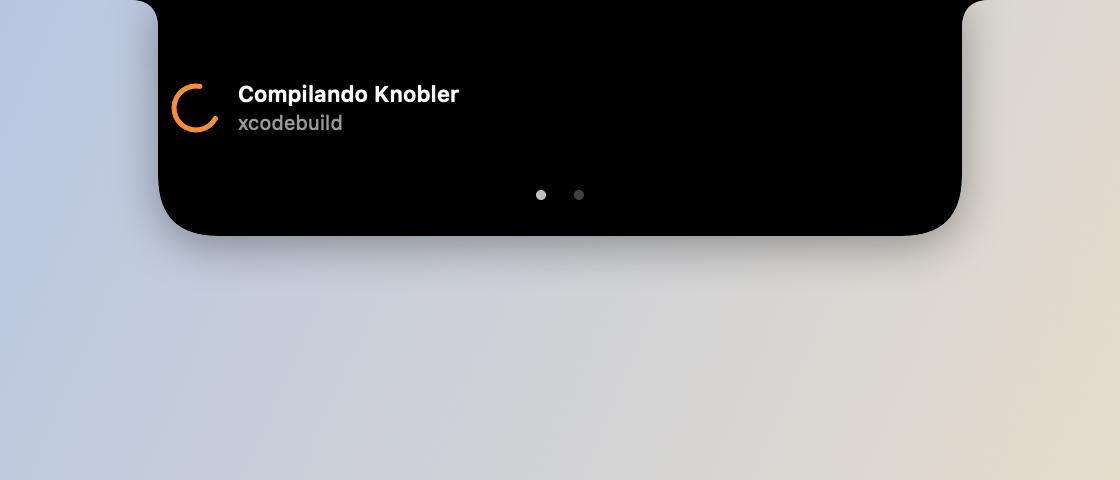
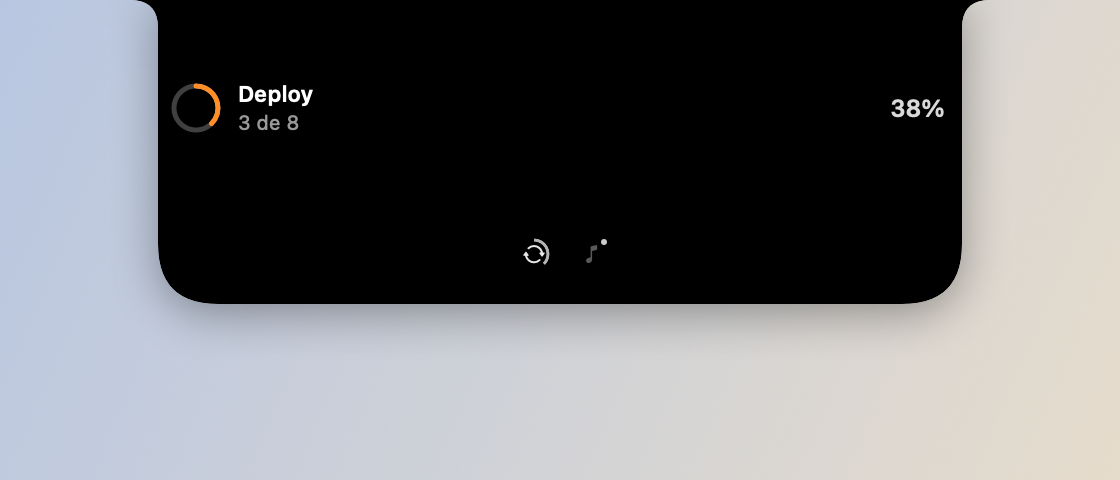
docs: fechamento da sessão do card com foco único
A Task 7 da branch varreu o vocabulário morto, mas três páginas de feature
seguiam descrevendo o mundo antigo por omissão — nenhuma delas citava a faixa
de ícones nem o modelo de seção:

- pomodoro.md: ganhou a seção do card, o anel do tempo restante na faixa, e o
  fato de que o timer não some mais a música (a supressão implícita morreu).
- mirror.md: onde fica o botão de câmera agora, e que o espelho ligado vira
  seção com ícone próprio.
- shelf.md: a contagem de itens no ícone e o arquivo novo como evento.

Duas imagens recapturadas do harness (music-expanded, expanded-activity-only)
mostram o rodapé novo. A da prateleira não sai do harness — as miniaturas
dependem do QLThumbnailGenerator, que não renderiza offscreen — então a página
avisa que a captura é anterior à faixa, em vez de mentir em silêncio.

HANDOFF com a sessão inteira: a queixa de UX que a originou, a distinção
evento × tique que a pesquisa salvou, e cinco pendências nomeadas.

Claude-Session: https://claude.ai/code/session_01MinJj9ahV381dmz6ZMNra1

diff --git a/HANDOFF.md b/HANDOFF.md
@@ -1,3 +1,80 @@
+# 🏁 SESSÃO 2026-07-29 (noite) — o card parou de empilhar
+
+A sessão começou por uma queixa de UX, não por um bug: *"a organização e a
+hierarquia da informação no notch não acompanha o usuário — parece uma coisa
+fixa da qual ele que precisa se curvar."* Terminou com **v0.14.0** publicada,
+depois de um desvio pro ícone do app.
+
+## O que foi feito
+
+**O card aberto virou uma lista ordenada + um índice de foco.** Antes ele
+empilhava tudo que existia numa ordem hardcoded (pomodoro > espelho > shelf >
+atividade > música), com a altura somada à mão por constantes combinatórias e
+**três** mecanismos de navegação concorrentes: abas com pontinhos, cortina do
+histórico e swipe. Agora a seção em foco ocupa o card e declara a própria
+altura; as outras viram ícones no rodapé, com sinal vivo mínimo (anel de
+progresso, contagem, ponto de tocando).
+
+A ordem sai de três camadas: base do usuário (arrastável em Ajustes › Notch),
+filtro de conteúdo, e promoção por **evento de transição** nos últimos 10 s —
+congelada no instante da abertura, pra nada pular debaixo do cursor.
+
+**A distinção evento × tique é o coração da feature, e quase passou batido.**
+O spec original dizia "seção que mudou nos últimos 10 s sobe". A pesquisa de
+viabilidade derrubou isso: `PomodoroState.remaining` muda a cada segundo e o
+`MediaController` publica posição continuamente — "mudou" deixaria os dois
+permanentemente promovidos e a regra degeneraria em "pomodoro sempre no topo".
+Virou uma tabela fechada de transições por seção, com `tools/eventoscheck.swift`
+provando por mutation testing que cada guarda tem seu matador.
+
+**Antes disso, o ícone.** O app usava um ícone que não conversava com o site, e
+a barra de menus não tinha ícone nenhum — era o caractere `◐` no título do
+`NSStatusItem`. Os dois viraram a silhueta do notch, que é a marca real do
+site (o `favicon.svg` de lá era o logo padrão do Astro, nunca trocado — também
+corrigido, no repo `knobler-site`). `tools/makeicon.swift` gera o `.icns` do
+vetor. Dois aprendizados: a arte precisa **sangrar até a borda** do canvas,
+senão o macOS 26 compõe tudo dentro de uma moldura clara dele (a "borda
+gigante"); e o ícone da barra é desenhado em runtime como `NSImage` template,
+sem asset novo.
+
+## Validação
+
+- `./tools/check.sh` → **18 checks** (era 16; a branch somou `sectionordercheck`
+  e `eventoscheck`).
+- `./tools/snapshot.sh` → 53 PNGs, cenários reescritos no eixo "qual seção em
+  foco". 49 byte-idênticos entre rodadas (recontado, não estimado).
+- Gesto medido no app real via `CGEvent.postToPid(_:)` — inclusive a folga de
+  16 pt, com controle negativo.
+- Ícone conferido lendo o que o **sistema** compõe (`NSWorkspace.icon(forFile:)`
+  do app instalado), não o PNG de origem.
+
+O processo foi SDD: 7 tasks, cada uma com implementador e revisor próprios. A
+revisão pegou um **Critical** (ligar a nota abria o card na seção errada *e* o
+app tomava a janela-chave sem campo focado — teclas engolidas em silêncio) e
+três Important, entre eles um `focoPendente` que sequestrava a abertura
+seguinte e travava a promoção pela sessão inteira. Um "Important" era **falso
+positivo** e o implementador provou com repro: `@Published` torna a propriedade
+computada, então `didSet` **reentra** — ao contrário da regra que vale pra
+propriedade armazenada.
+
+## Pendências e followups
+
+- **`docs/images/expanded-shelf.png` é anterior à faixa** e pede recaptura
+  manual no app rodando (as miniaturas dependem do `QLThumbnailGenerator`, que
+  não renderiza offscreen). Já anotado na própria página.
+- **`fatiaDoCiclo` reimplementa `Pomodoro.duration(of:config:)`** e ignora o
+  `configProvider` injetado. Trocar o `switch` pela chamada mata a duplicação
+  sem mudar contrato.
+- **`zoneWidth` do scroll fechado (400) segue literal** — o aberto já deriva de
+  `NotchGesture.larguraDoCard + 2×folgaDeHover`.
+- **Digitar na nota nunca foi testado no app rodando** (painel `nonactivating`,
+  `keystroke` do System Events vai pro app da frente). É o único ponto da
+  feature cuja garantia é leitura de código, e é justamente o caminho da perda
+  silenciosa de teclas — vale um teste manual humano.
+- O app em `/Applications` pode estar num build Debug desta sessão. `brew
+  upgrade knobler` pra ficar com a release; a assinatura muda e o TCC ancora a
+  Acessibilidade no cdhash, então o ditado pode pedir permissão de novo.
+
 # 🏁 SESSÃO 2026-07-29 (tarde) — o crash em Mac novo e a conversa que abria no topo
 
 Sessão curta e reativa: dois bugs relatados de fora, dois releases publicados

diff --git a/docs/shelf.md b/docs/shelf.md
@@ -2,6 +2,11 @@
 
 ![Notch expandido com a prateleira](images/expanded-shelf.png)
 
+> A captura acima é anterior à faixa de ícones do rodapé (v0.14.0) — o card
+> real hoje traz a faixa embaixo. Ela não sai do `tools/snapshot.sh` porque as
+> miniaturas dependem do `QLThumbnailGenerator`, que não renderiza offscreen;
+> pede recaptura manual no app rodando.
+
 ## O que faz
 
 Uma prateleira de arquivos temporários no notch: arraste um arquivo pro notch
@@ -17,6 +22,11 @@ prontos pra arrastar em vez de precisar ir até a área de trabalho.
   "tirar" ele de lá.
 - Screenshots caírem automaticamente na prateleira: Ajustes → Notch
   (`screenshotsToShelf`).
+- A prateleira é uma **seção** do card aberto. Se ela não estiver em foco, o
+  ícone de bandeja na faixa do rodapé mostra a **contagem de itens** — clicar
+  traz a prateleira pra frente. Arquivo novo (arrastado ou screenshot
+  capturado) conta como evento: o card recém-aberto põe a prateleira na
+  frente por alguns segundos.
 - **Botão direito** (ou Control+clique) na miniatura abre o menu:
 
 ```

diff --git a/docs/mirror.md b/docs/mirror.md
@@ -13,7 +13,13 @@ chamada de verdade.
 
 ## Como usar
 
-- No notch aberto, clique no botão de câmera pra ligar/desligar o espelho.
+- No notch aberto, com a seção **Música** em foco, clique no botão de câmera
+  (à direita dos controles de reprodução) pra ligar/desligar o espelho. Sem
+  música tocando o mesmo botão aparece no meio do card, sob "Nada tocando".
+- Ligado, o espelho vira uma **seção** do card, com ícone próprio na faixa do
+  rodapé — clicar nele traz o espelho de volta se você tiver posto outra coisa
+  na frente. Recolher o notch desliga o espelho: a câmera nunca fica ligada
+  escondida.
 - Na primeira vez, o macOS pede a permissão de câmera.
 - Com mais de uma câmera na máquina (webcam USB, OBS Virtual Camera, Câmera de
   Continuidade), a **setinha no canto do preview** abre a lista pra escolher

diff --git a/docs/pomodoro.md b/docs/pomodoro.md
@@ -25,6 +25,20 @@ tempo restante.
 - Durações de foco/pausa curta/pausa longa e quantos ciclos até a pausa longa:
   Ajustes → Pomodoro.
 
+## No card aberto
+
+Com o timer rodando, o Pomodoro é uma **seção** do card aberto — o tempo
+grande, o "Ciclo N de M" e os controles. Ele não some mais a música: as duas
+convivem na faixa do rodapé e você escolhe qual fica na frente clicando no
+ícone (ou deslizando dois dedos na horizontal).
+
+Fora de foco, o ícone do timer na faixa mostra um **anel do tempo restante da
+fase** — dá pra saber quanto falta sem tirar a música da tela.
+
+Virar fase (foco → pausa e vice-versa) é um evento: o card recém-aberto põe o
+Pomodoro na frente por alguns segundos. O tique do relógio, não — senão ele
+moraria no topo pra sempre.
+
 ## Permissões
 
 Nenhuma permissão especial.

diff --git a/docs/architecture.md b/docs/architecture.md
@@ -87,9 +87,9 @@ de mensagem, por exemplo). A nota rápida é modo exclusivo: com ela em foco a
 faixa some.
 
 A altura do card é derivada do foco (`NotchView.alturaDaSecao`, que o
-`currentSize` consome) e
-publicada em `NotchViewModel.alturaAtual`, que o monitor de scroll — fora do
-SwiftUI — usa pra delimitar a zona do gesto junto com `NotchGesture.folgaDeHover`.
+`currentSize` consome) e publicada em `NotchViewModel.alturaAtual`, que o
+monitor de scroll — fora do SwiftUI — usa pra delimitar a zona do gesto junto
+com `NotchGesture.folgaDeHover` e `larguraDoCard`.
 
 ## Fluxo de AskUserQuestion
 
